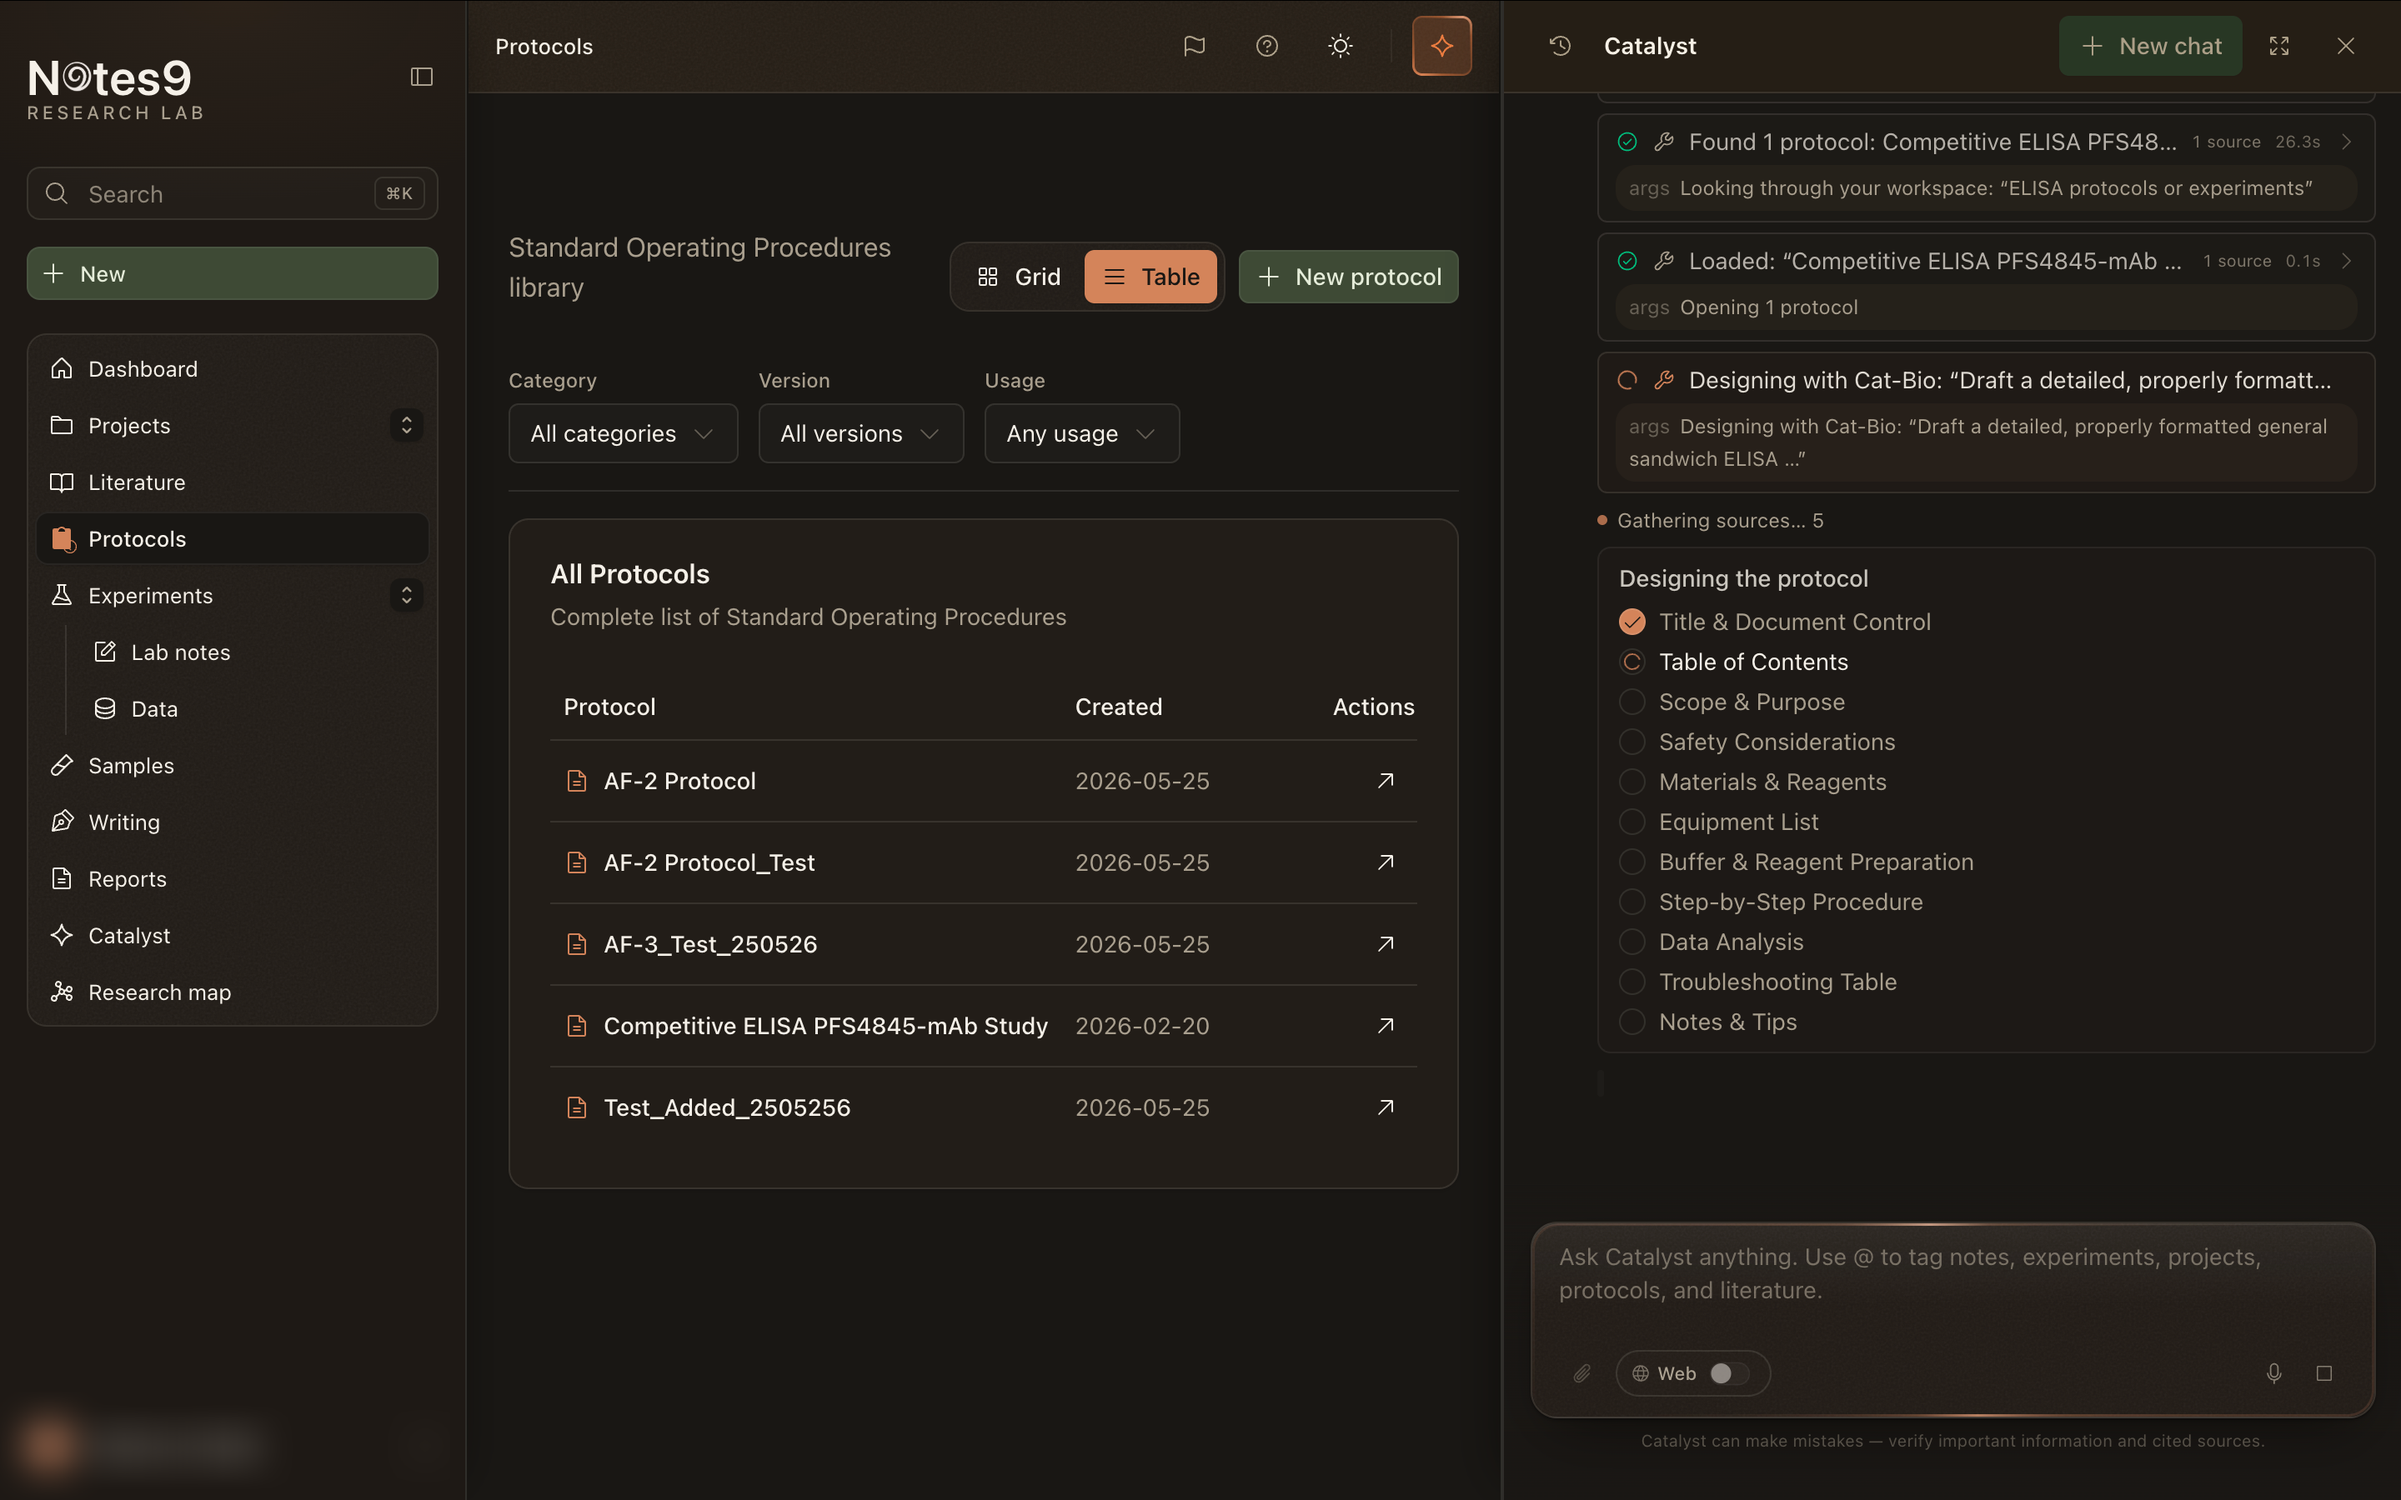
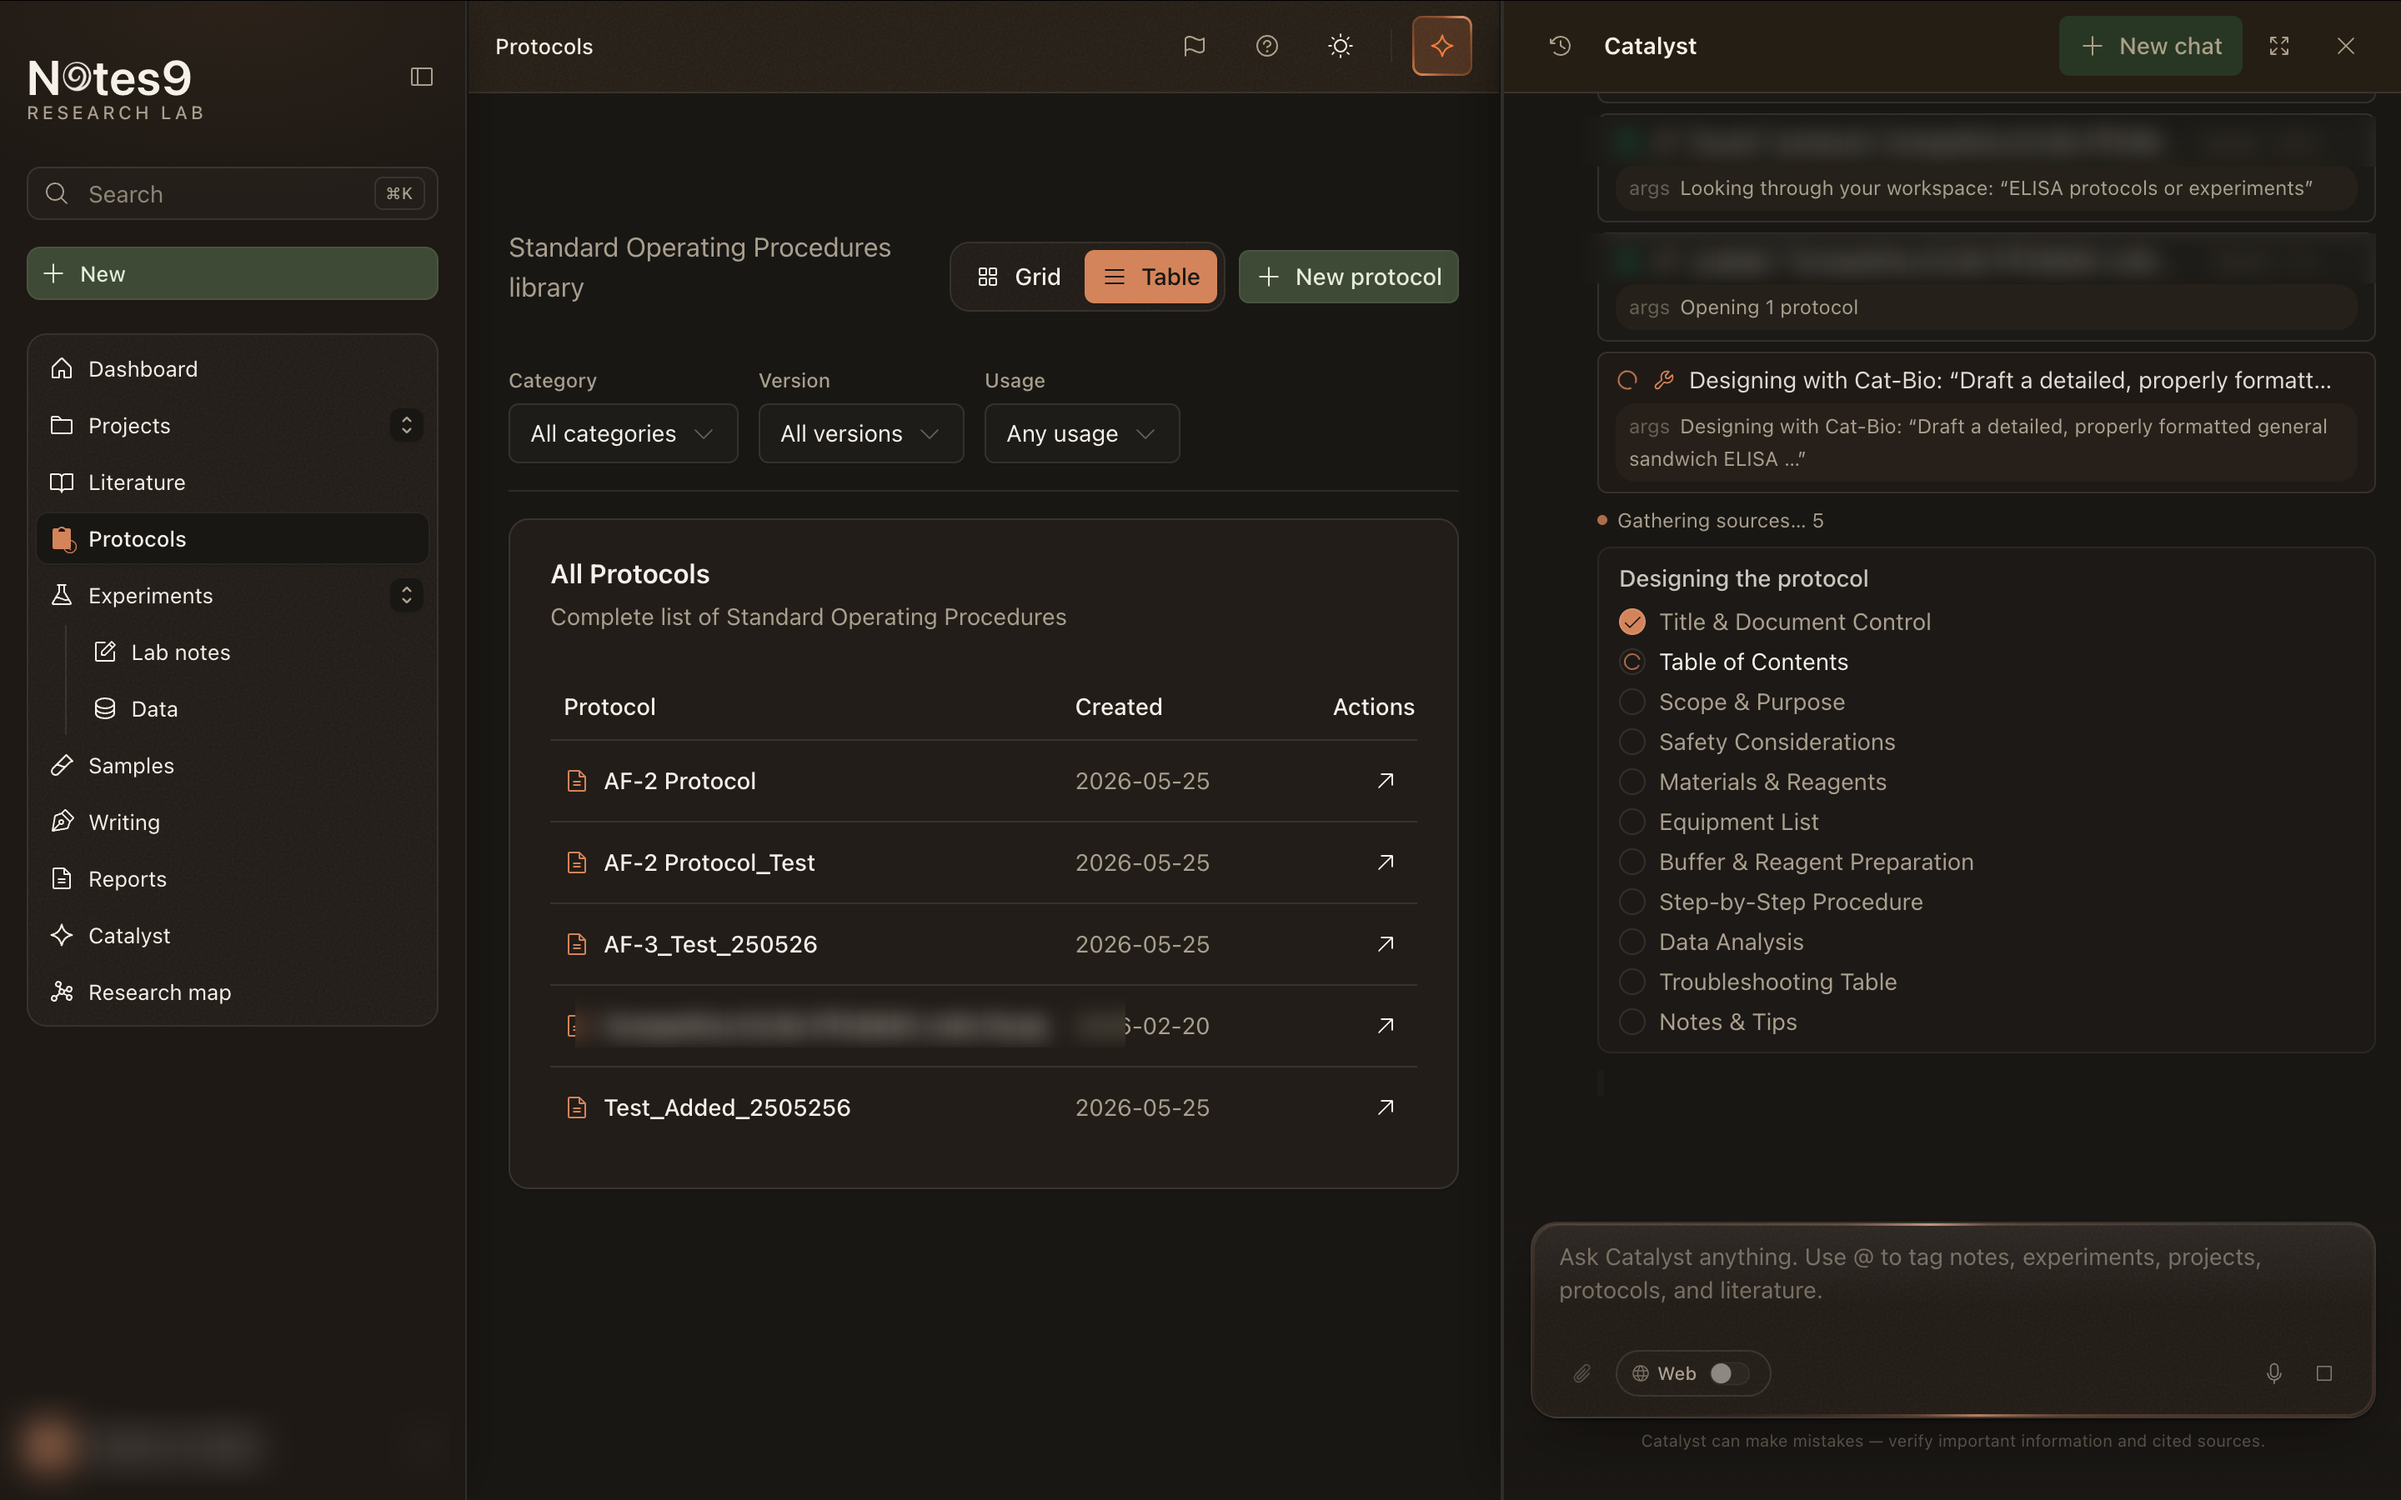
Differentiate the hero from the sign-up screen; remove a protocol name
Layout
------
Restyling the right panel was not enough — it was still two columns with a
bordered surface on the right, which is the sign-up screen's shape. The
difference is now structural rather than cosmetic:

  sign-up   two surfaces meeting down the middle; the right one is a bordered
            inset panel with its own drafting grid, and its product card sits
            fully inside that frame
  hero      one continuous plane; a single oversized artefact lies across it,
            overlapping the copy's measure and cropped by the right edge, with
            nothing framing it at all

Removing the frame is what does the work. With no bordered panel there is no
second surface for the eye to read as "the other half", so the composition is
asymmetric rather than split.

Protocol name
-------------
"PFS4845" removed everywhere it appeared: the two tool-call strings in the
rendered Catalyst panel, and three places in the captures — the two tool-call
rows in both light and dark, plus the protocols table row in the dark one. The
capture occurrences are blurred in place with sharp, matching how PII is
redacted in these assets. Verified by re-cropping each region afterwards rather
than assuming the coordinates were right.

diff --git a/components/marketing/hero-split.tsx b/components/marketing/hero-split.tsx
@@ -39,20 +39,36 @@ const SCOPE: { label: string; icon: PhosphorIcon }[] = [
 
 export function HeroSplit() {
   return (
-    <section className="relative isolate overflow-hidden lg:grid lg:min-h-[92svh] lg:grid-cols-[minmax(0,1fr)_minmax(0,1.02fr)]">
-      {/* ── Left: the claim and the one control ──────────────────────────── */}
-      <div className="relative flex flex-col justify-center px-4 pb-14 pt-20 sm:px-8 lg:px-12 lg:py-16 xl:px-20">
-        <div aria-hidden className="pointer-events-none absolute inset-0 -z-10">
-          <div className="absolute inset-0 bg-[radial-gradient(70%_60%_at_20%_0%,color-mix(in_oklab,var(--n9-accent)_11%,transparent),transparent_72%)]" />
-          <div className="n9-grain-overlay" />
-        </div>
+    <section className="relative isolate min-h-[92svh] overflow-hidden">
+      {/* One continuous field across the whole section. The sign-up screen is
+          two surfaces meeting down the middle; this is a single plane with
+          something sitting on it — which is the structural difference, not a
+          styling one. */}
+      <div aria-hidden className="pointer-events-none absolute inset-0 -z-10">
+        <div className="absolute inset-0 bg-[radial-gradient(58%_54%_at_16%_4%,color-mix(in_oklab,var(--n9-accent)_12%,transparent),transparent_70%)]" />
+        <div className="absolute inset-0 bg-[radial-gradient(46%_60%_at_86%_58%,color-mix(in_oklab,#7f8f74_16%,transparent),transparent_72%)]" />
+        <div className="n9-grain-overlay" />
+      </div>
 
-        <div className="w-full max-w-xl">
+      {/* The artefact is not in a panel and not in a column. It is a single
+          object lying across the section — oversized, overlapping the copy's
+          measure, and cropped by the right edge. Nothing frames it, so there is
+          no second surface for the eye to read as "the other half". */}
+      <div
+        aria-hidden
+        className="pointer-events-none absolute right-[-10%] top-1/2 hidden w-[54rem] -translate-y-1/2 lg:block xl:right-[-6%] xl:w-[60rem]"
+      >
+        <div className="absolute -inset-10 -z-10 rounded-[48px] bg-[var(--n9-accent)]/[0.07] blur-3xl" />
+        <HeroCatalystPanel className="w-full" />
+      </div>
+
+      <div className="container relative mx-auto flex min-h-[92svh] items-center px-4 py-20 sm:px-6 lg:px-8">
+        <div className="w-full max-w-lg">
           <p className="n9-label n9-rise" style={{ ["--n9-rise-delay" as string]: "60ms" }}>
             The connected research workspace
           </p>
 
-          <h1 className="mt-7 font-serif tracking-[-0.035em] text-[clamp(2.5rem,4.6vw,4.25rem)] leading-[1.0]">
+          <h1 className="mt-7 font-serif tracking-[-0.035em] text-[clamp(2.5rem,4.4vw,4rem)] leading-[1.0]">
             <span
               className="n9-rise block text-foreground"
               style={{ ["--n9-rise-delay" as string]: "150ms" }}
@@ -68,24 +84,18 @@ export function HeroSplit() {
           </h1>
 
           <p
-            className="n9-rise mt-6 max-w-md text-[16px] leading-[1.75] text-foreground/70"
+            className="n9-rise mt-6 max-w-sm text-[16px] leading-[1.75] text-foreground/70"
             style={{ ["--n9-rise-delay" as string]: "360ms" }}
           >
             Every paper, protocol, result and note stays linked — so the assistant you ask
             has already read all of it, and cites what it used.
           </p>
 
-          <div
-            className="n9-rise mt-9"
-            style={{ ["--n9-rise-delay" as string]: "440ms" }}
-          >
+          <div className="n9-rise mt-9" style={{ ["--n9-rise-delay" as string]: "440ms" }}>
             <HeroSearch />
           </div>
 
-          <div
-            className="n9-rise mt-14"
-            style={{ ["--n9-rise-delay" as string]: "600ms" }}
-          >
+          <div className="n9-rise mt-12" style={{ ["--n9-rise-delay" as string]: "600ms" }}>
             <hr className="n9-hairline" />
             <ul className="mt-5 flex flex-wrap items-center gap-x-6 gap-y-2">
               {SCOPE.map(({ label, icon: Icon }) => (
@@ -101,54 +111,6 @@ export function HeroSplit() {
           </div>
         </div>
       </div>
-
-      {/* ── Right: what comes back ───────────────────────────────────────── */}
-      <aside className="hidden p-3 lg:block">
-        <ShowcasePanel />
-      </aside>
     </section>
-  )
-}
-
-function ShowcasePanel() {
-  return (
-    <div className="relative flex h-full flex-col justify-center overflow-hidden rounded-[28px] border border-border/50 px-10 py-12 xl:px-14">
-      <PanelField />
-
-      <div className="relative">
-        <p className="flex items-center gap-2 font-mono text-[10.5px] uppercase tracking-[0.16em] text-muted-foreground">
-          <span className="size-1.5 rounded-[1px] bg-[var(--n9-accent)]" />
-          What comes back
-        </p>
-        <p className="mt-4 max-w-sm font-serif text-[22px] leading-snug tracking-tight text-foreground">
-          &ldquo;Draft an ELISA protocol from what we already have.&rdquo;
-        </p>
-      </div>
-
-      {/* The artefact, at full fidelity and bleeding off the right edge so it
-          reads as a window into the app rather than a picture placed on a slide. */}
-      <div className="relative mt-8 -mr-16 xl:-mr-10">
-        <HeroCatalystPanel className="w-full" />
-      </div>
-
-      <p className="relative mt-7 max-w-sm text-[13.5px] leading-6 text-muted-foreground">
-        It reads your workspace first, names every source it opened, and builds the
-        protocol section by section — so you can check the work, not just the answer.
-      </p>
-    </div>
-  )
-}
-
-/** Panel-scoped colour field, matching the sign-up screen's showcase surface. */
-function PanelField() {
-  return (
-    <div aria-hidden className="pointer-events-none absolute inset-0">
-      <div className="absolute inset-0 bg-[color-mix(in_oklab,var(--n9-accent)_5%,var(--card))]" />
-      <div className="absolute inset-0 [background-image:linear-gradient(to_right,color-mix(in_oklab,var(--foreground)_4%,transparent)_1px,transparent_1px),linear-gradient(to_bottom,color-mix(in_oklab,var(--foreground)_4%,transparent)_1px,transparent_1px)] [background-size:52px_52px]" />
-      <div className="absolute -inset-[20%] opacity-90 blur-[70px] saturate-[1.12]">
-        <div className="absolute inset-0 [background:radial-gradient(56%_38%_at_46%_-4%,color-mix(in_oklab,#f6e4cf_58%,transparent),transparent_72%),radial-gradient(40%_50%_at_14%_26%,color-mix(in_oklab,var(--n9-accent)_34%,transparent),transparent_68%),radial-gradient(38%_46%_at_86%_66%,color-mix(in_oklab,#7f8f74_30%,transparent),transparent_70%)]" />
-      </div>
-      <div className="n9-grain-overlay" />
-    </div>
   )
 }

diff --git a/components/marketing/hero-app-frame.tsx b/components/marketing/hero-app-frame.tsx
@@ -692,8 +692,8 @@ export function HeroResearchMapPanel({ className }: { className?: string }) {
 
 const TOOL_CALLS = [
   { text: "Read 6 excerpts from your protocols", meta: "1 source · 2.2s" },
-  { text: "Found 1 protocol: Competitive ELISA PFS4845-mAb Study", meta: "1 source · 27.4s" },
-  { text: "Loaded: “Competitive ELISA PFS4845-mAb Study”", meta: "1 source · 0.1s" },
+  { text: "Found 1 protocol: Competitive ELISA — anti-mAb", meta: "1 source · 27.4s" },
+  { text: "Loaded: “Competitive ELISA — anti-mAb”", meta: "1 source · 0.1s" },
 ]
 
 const DESIGN_STEPS = [
